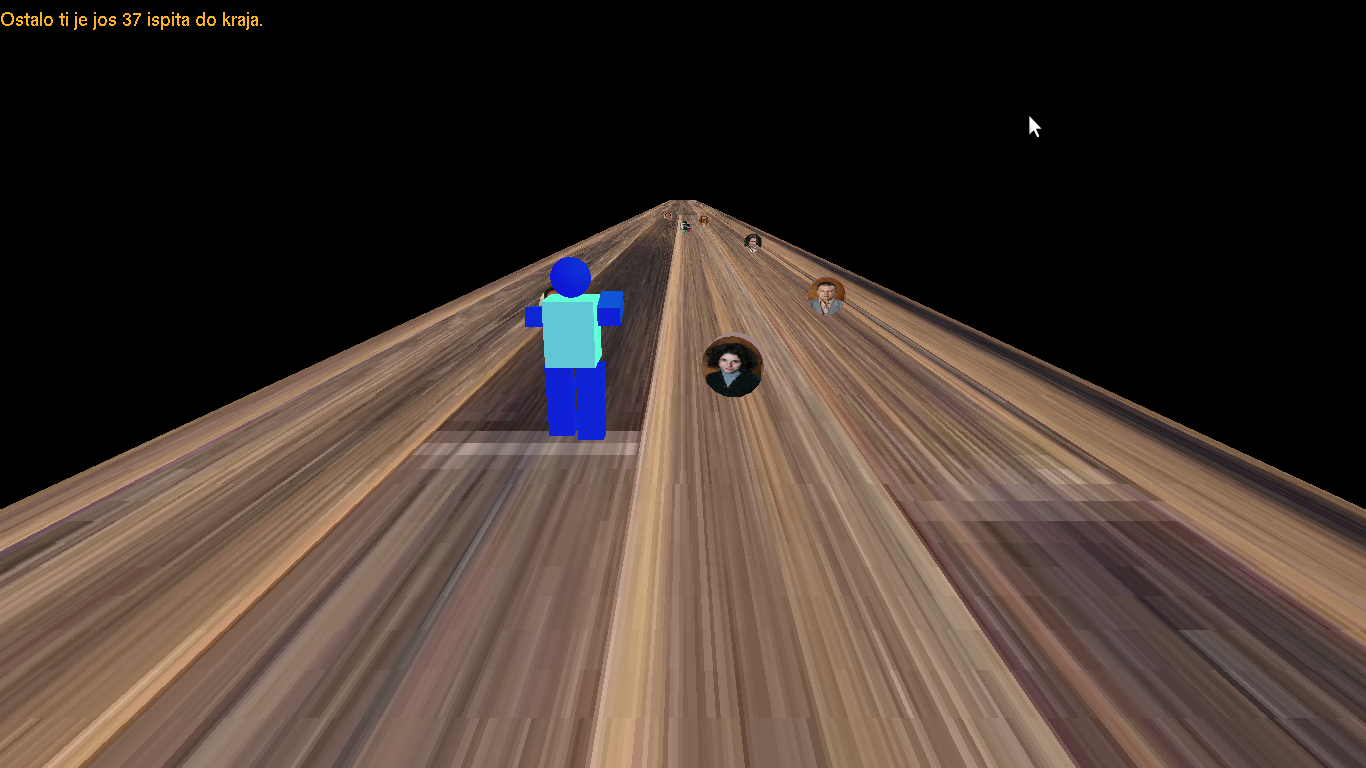
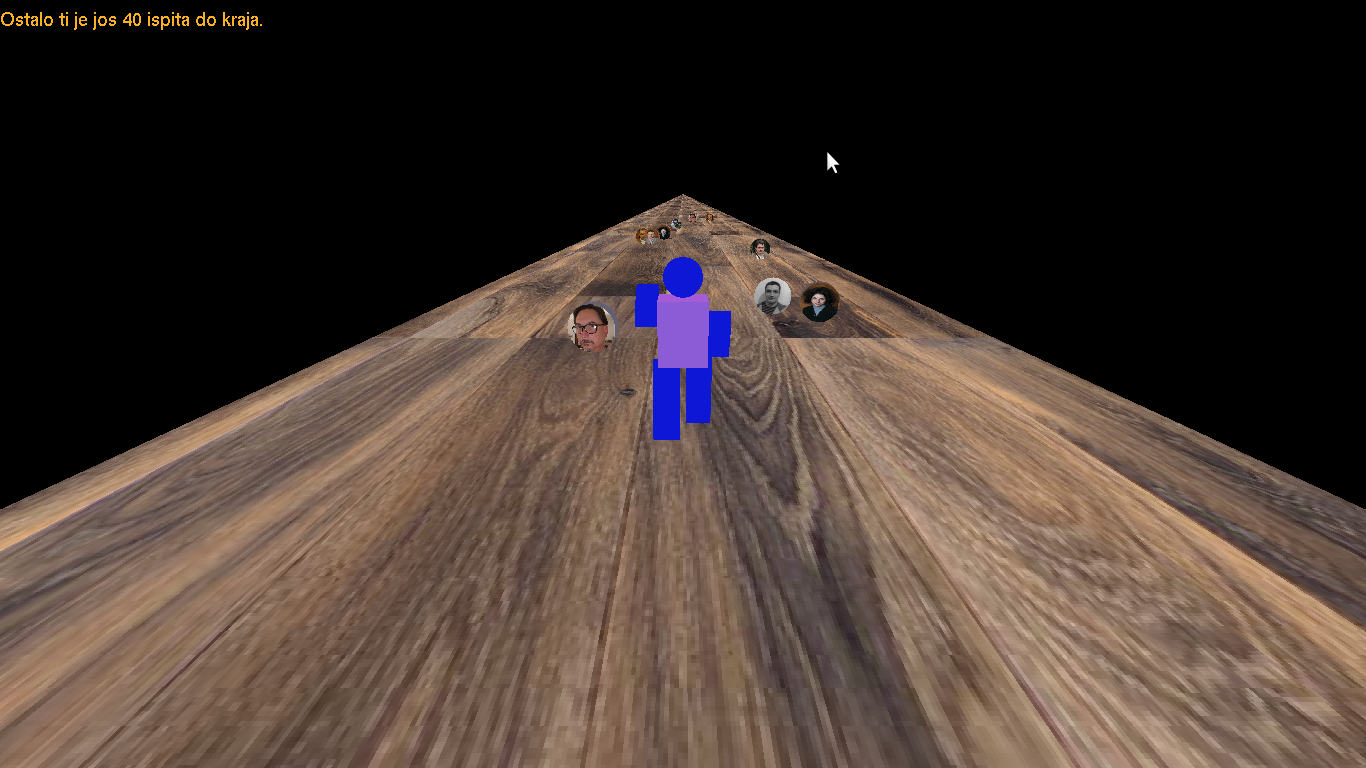
popravljen screenshot

diff --git a/src/figure.cpp b/src/figure.cpp
@@ -144,7 +144,7 @@ void change_colour(void) {
 void Plane::draw(){
     glPushMatrix();
 	  
-    glTranslatef(0, 0, z_pos/1.8);
+    glTranslatef(0, 0, z_pos/3);
   
 	glScalef(1.5, 0.05, 1);
 
@@ -152,16 +152,18 @@ void Plane::draw(){
 	float tmp_y = 0;
 	glEnable(GL_TEXTURE_2D);
 	glBindTexture(GL_TEXTURE_2D, parquet);
-	glBegin(GL_POLYGON);
-		glTexCoord2f(0, 0);
-		glVertex3f(-3, tmp_y, 15);
-		glTexCoord2f(1, 0);
-		glVertex3f(3, tmp_y, 15);
-		glTexCoord2f(1, 1);
-		glVertex3f(3, tmp_y, -250);
-		glTexCoord2f(0, 1);
-		glVertex3f(-3, tmp_y, -250);
-	glEnd();
+	for (int i = 0; i < 300; i++) {
+		glBegin(GL_POLYGON);
+			glTexCoord2f(0, 0);
+			glVertex3f(-3, tmp_y, 15 - i * 25);
+			glTexCoord2f(1, 0);
+			glVertex3f(3, tmp_y, 15 - i * 25);
+			glTexCoord2f(1, 1);
+			glVertex3f(3, tmp_y, -10 - i * 25);
+			glTexCoord2f(0, 1);
+			glVertex3f(-3, tmp_y, -10 - i * 25);
+		glEnd();
+	}
 	glDisable(GL_TEXTURE_2D);
 	glPopMatrix();
 	//glutSolidCube(4);
